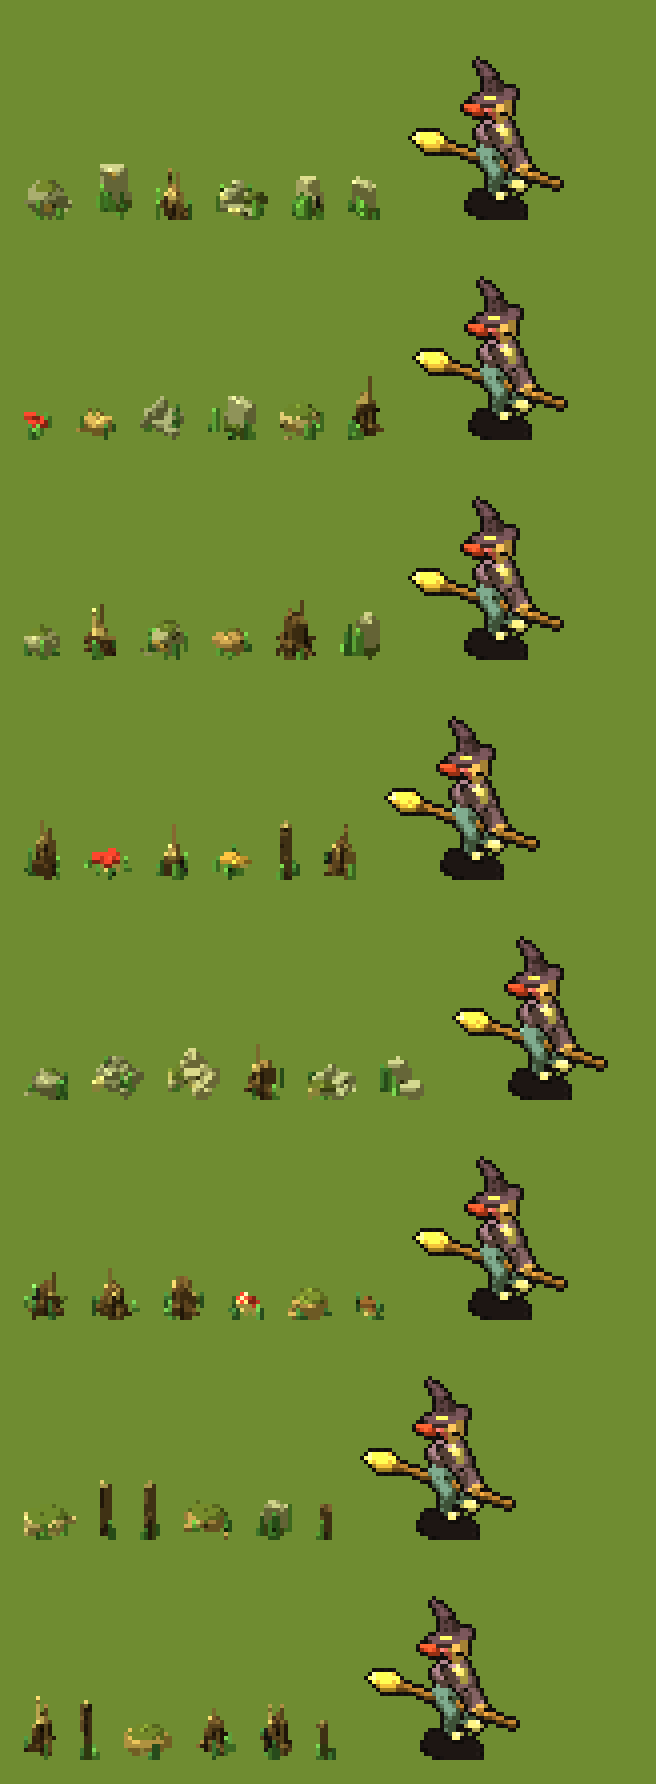
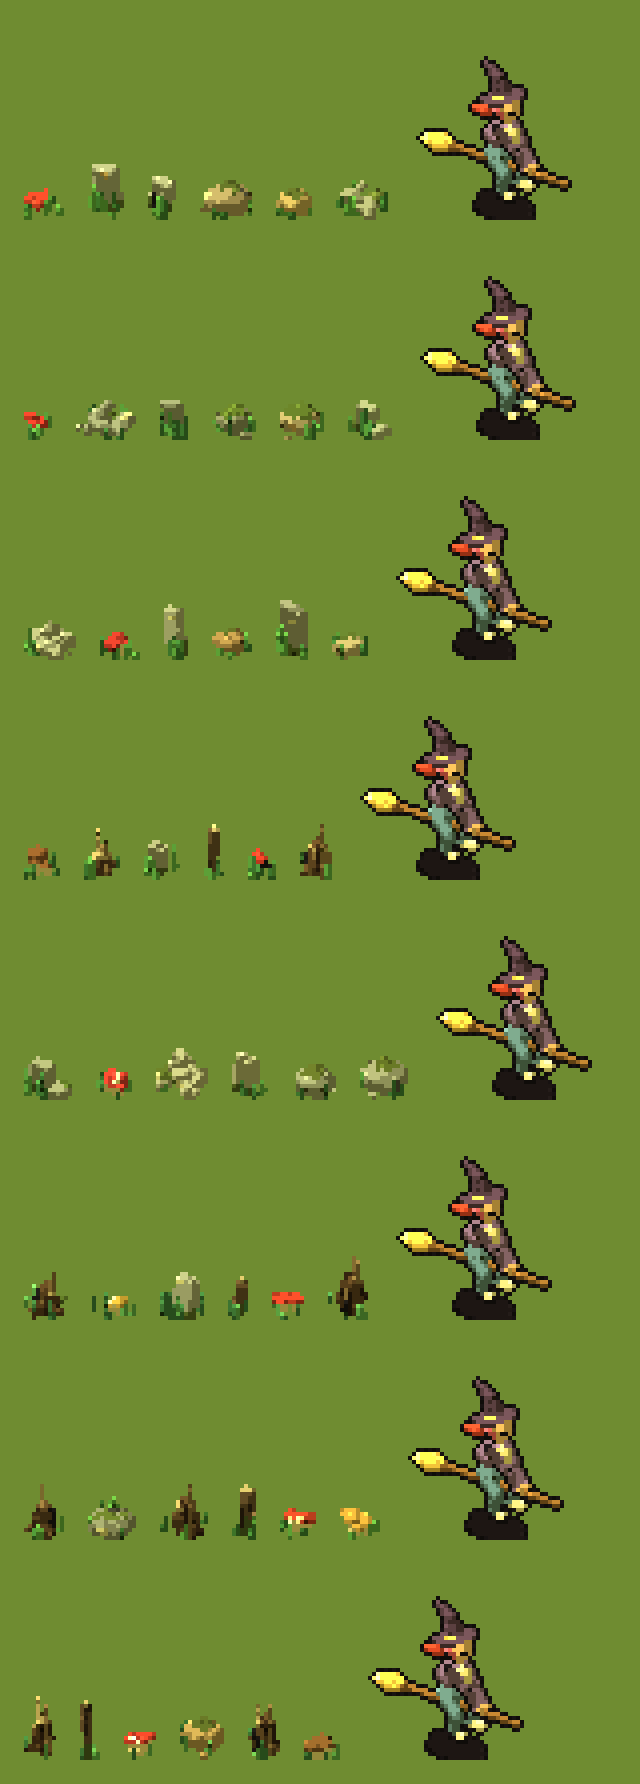
Rim kit: each area's six forms dealt by their weights (rimForms), not drawn independently; the check samples clearly wooded areas
Claude-Session: https://claude.ai/code/session_01VVaLYY2sU2dqSozCTw7Z4G

diff --git a/tools/art-lab/dist/witch-art-lab.html b/tools/art-lab/dist/witch-art-lab.html
@@ -1627,7 +1627,7 @@ const PITCH = .52;                       // the camera looks down about 30°
 // Renders a model to a Sprite `height` art pixels tall (measured over the parts not marked extra).
 // With `scale` (pixels per model unit) instead, several models share one scale.
 // With `measure`, it only works out the scale (pixels per unit) `height` would give: { s }.
-function render(model, { height, scale, facing = "towards", yaw = YAW[facing] ?? YAW.towards, pitch = PITCH, lineGap = .12, measure = false } = {}) {
+function render(model, { height, scale, facing = "towards", yaw = YAW[facing] ?? YAW.towards, pitch = PITCH, lineGap = .12, measure = false, keepDepth = false } = {}) {
   const cy = Math.cos(yaw), sy = Math.sin(yaw), cp = Math.cos(pitch), spp = Math.sin(pitch);
   // model.atScale(pxPerUnit): parts that must be sized in pixels (an expression's face: genome/expressions.js), added once the scale is known
   if (model.atScale && !measure) { const f = model.atScale; model.atScale = null; f(scale ?? render(model, { height, facing, yaw, pitch, lineGap, measure: true }).s); }
@@ -1738,7 +1738,13 @@ function render(model, { height, scale, facing = "towards", yaw = YAW[facing] ??
   sp.bodyH = Math.round((u1b - u0b) * s); // the body's height, without parts marked extra (antlers, wings)
   // where a point of the model lands on the sprite, in pixels from its top-left (for anchors: a hand, a hat tip)
   const project = p => { const w = toWorld(p); return [+(((w[0] - X0) * s + 1).toFixed(1)), +(((U1 - dot(w, U)) * s + drop).toFixed(1))]; };
-  return { sp, s, project };
+  if (!keepDepth) return { sp, s, project };
+  // keepDepth (the bedroom, for whatever walks in it): each pixel's distance along the view (moved down with the rows, Infinity
+  // where empty), and depthOf, the same distance for a point of the model, to compare with it
+  const zbuf = new Float32Array(W * H).fill(Infinity);
+  for (let y = H - 1; y >= drop; y--) zbuf.set(depth.subarray((y - drop) * W, (y - drop + 1) * W), y * W);
+  const depthOf = p => 50 - dot(toWorld(p), B);
+  return { sp, s, project, depth: zbuf, depthOf };
 }
 
 // Paint helpers: a pattern from model coordinates.
@@ -3006,6 +3012,21 @@ const PROP_GENOMES = {
 };
 const PROP_KINDS = Object.keys(PROP_GENOMES);
 
+// The legend clearings' rim kit (#235, art builder 1's ask): small pieces, none over a metre, that ring a sleeping legend's clearing
+// (rules: map.legendClearings), built from the props above at a small size, and a short post. Each area gets 6 (areaAssets' `rim`),
+// weighted by what it is: stony, open areas towards stones, cairns and boulders; wooded ones towards toadstools and stumps.
+//   forms: each form's weight [open, wooded]; the numbers each form fixes on the prop it is built from (ranges picked from the seed)
+const RIM_GENOMES = {
+  forms: { stone: [3, 1], cairn: [2, .5], boulder: [3, 1], toadstools: [1, 3], stump: [.5, 3], post: [.5, 1.5] },
+  stone: { kind: "standingStone", height: [.45, .8], width: [.28, .42], depth: [.14, .22], shape: "tall", lichen: [0, 1], lichenSize: [.05, .08], moss: [.15, .3] },
+  cairn: { kind: "cairn", stones: [5, 7], spread: [.5, .7], height: [.35, .55], size: [.11, .16], slab: "none", rubble: [1, 3] },
+  boulder: { kind: "boulder", size: [.22, .38], lumps: [1, 3], pebbles: [1, 3] },
+  toadstools: { kind: "mushroomRing", form: "clump", radius: [.22, .34], count: [4, 7], size: [.07, .12], cap: [["red", 3], ["brown", 3], ["ochre", 2]] },
+  stump: { kind: "brokenTrunk", height: [.25, .5], girth: [.12, .18], branch: "none", splinters: [2, 4], roots: [2, 4], fungi: [0, 1] },
+  post: { height: [.55, .95], girth: [.05, .08], lean: [-.14, .14], top: [["flat", 2], ["point", 1], ["split", 1]], moss: [0, .4],
+    colour: { wood: [.07, .3, .36], dark: [.06, .35, .2], light: [.08, .22, .52], pale: [.1, .14, .62], moss: [.24, .45, .36], fungus: [.08, .45, .62], spread: .05 } }, // weathered grey-brown wood
+};
+
 // The party's generated decorations (art/party.js "gen-*" pieces, behind ?props=gen): bunting, balloon bunches and paper lanterns,
 // each a few seeded variants, in the witch model's units like the other party pieces. Their colours are the party's (neon or
 // balloon palettes at bake), so the genomes hold shapes only.
@@ -3425,6 +3446,50 @@ function propFor(kind, o = {}) {
   return null;
 }
 
+// ---- the legend clearings' rim kit (RIM_GENOMES): a small piece of one of six forms, none over a metre ----
+// a short post: a squared stake, weathered, leaning a little; its top flat, cut to a point or split; moss up its foot
+function prPost(m, v) {
+  const r = v.r, H = v.height * PR_U, R = v.girth * PR_U, up = v3.norm([v.lean, 1, (r() - .5) * .1]), at = y => v3.mul(up, y);
+  const grain = p => Math.sin(p[0] * 90 + p[2] * 40 + p[1] * 6) > .85 ? M.BARKD : p[1] < H * v.moss * (.7 + .6 * gpPrCell(p, 30, 4)) ? M.MOSS : undefined;
+  const top = v.top === "point" ? H * .82 : H;
+  m.box(at(top * .5 - .01), [top * .5 + .01, R, R * .9], M.TRUNK, { dir: up, up: [1, 0, 0], round: R * .25, rough: .006, group: 1, paint: grain });
+  if (v.top === "point") for (const s0 of [-1, 1]) m.box(v3.add(at(top), [s0 * R * .9, 0, 0]), [R * 1.1, R * .9, R * 1.2], M.TRUNK, { dir: v3.norm(v3.add(up, [-s0 * .9, 0, 0])), up: [0, 0, 1], cut: true, group: 1 });
+  if (v.top === "point") m.box(at(top + R * .45), [R * .45, R * .5, R * .5], M.BELLY, { dir: up, up: [1, 0, 0], round: R * .3, group: 2 });
+  else if (v.top === "split") { m.box(at(top + .004), [.004, R * .95, R * .85], M.BELLY, { dir: up, up: [1, 0, 0], group: 2 }); m.box(v3.add(at(top), [R * .2, 0, R * .5]), [R * .5, .01, R * .6], M.BARKD, { dir: up, up: [1, 0, 0], cut: true, group: 1 }); }
+  else m.box(at(top + .004), [.004, R * .95, R * .85], M.BELLY, { dir: up, up: [1, 0, 0], group: 2 }); // its cut end, pale
+  for (let k = 0; k < 5; k++) { const a = r() * Math.PI * 2, x = Math.cos(a) * R * 2, z = Math.sin(a) * R * 2; m.seg([x, 0, z], [x, .05 + r() * .09, z], .018, .005, k % 2 ? M.LEAF2 : M.LEAF, { group: 9 }); }
+}
+// Whether an area is open (no trees among its big objects): its rim leans to stones; wooded ones to toadstools and stumps.
+const RIM_STONY_FLOORS = new Set(["stony", "scree", "stone", "gravel", "rock"]);
+const rimWooded = def => !!def?.big?.some(b => b[0] === "tree") && !RIM_STONY_FLOORS.has(def?.floor?.[0]) && !def?.layout?.terrain?.includes("rocky");
+const rimAreaSeed = def => [...(def?.id ?? "")].reduce((h, c) => (h * 31 + c.charCodeAt(0)) % 99991, 3);
+/** The form of an area's k-th rim piece (seeded by the area and k, weighted by RIM_GENOMES.forms). */
+function rimForm(def, k) {
+  const w = rimWooded(def) ? 1 : 0, opts = Object.entries(RIM_GENOMES.forms).map(([f, ws]) => [f, ws[w]]);
+  return prPick(rng((rimAreaSeed(def) * 7 + k * 131 + 17) >>> 0), opts);
+}
+/** An area's k-th rim piece's seed (its shape), its own in every area. */
+const rimSeed = (def, k) => rimAreaSeed(def) * 13 + k * 17 + 5;
+/** One rim piece: o.form (or the area's k-th, o.k), o.seed. Returns propPiece's { sp, colours, metres, variant } and its form. */
+function rimPiece(o = {}, def = null, st = {}, ppm = 16) {
+  for (let t = 0; t < 6; t++) { const p = rimPieceOnce({ ...o, seed: (o.seed ?? 0) + t * 1009 }, def, st, ppm); if (p.metres.height <= 1 || t === 5) return p; } // none over a metre: a taller one is seeded again
+}
+function rimPieceOnce(o, def, st, ppm) {
+  const form = o.form ?? rimForm(def, o.k ?? 0), G = RIM_GENOMES[form], seed = o.seed ?? 0, r = rng(((seed + 3) * 2654435761 + form.length * 131) >>> 0);
+  const fix = Object.fromEntries(Object.entries(G).filter(([k]) => k !== "kind" && k !== "colour").map(([k, g]) => [k, Array.isArray(g) && Array.isArray(g[0]) ? prPick(r, g) : Array.isArray(g) ? (Number.isInteger(g[0]) && Number.isInteger(g[1]) ? Math.round(g[0] + (g[1] - g[0]) * r()) : g[0] + (g[1] - g[0]) * r()) : g]));
+  if (form === "post") {
+    const v = { ...fix, seed, r }, m = new Model({ blend: .03 });
+    prPost(m, v);
+    const sp = prCrop(render(m, { scale: witchPixelsPerUnit(st) }).sp); cleanFlecks(sp);
+    const vr = rng((seed * 7919 + 13) >>> 0), C = G.colour, k = C.spread, leaf = def?.leaf ?? .26;
+    const colours = { [M.LEAF]: hsv2rgb(leaf, .5, .45), [M.LEAF2]: hsv2rgb(leaf - .03, .45, .62), [M.TRUNK]: prTone(C.wood, vr, k), [M.BARKD]: prTone(C.dark, vr, k), [M.BARKL]: prTone(C.light, vr, k), [M.BELLY]: prTone(C.pale, vr, k * .5), [M.MOSS]: prTone(C.moss, vr, k), [M.LINE]: [24, 22, 30] };
+    const { r: _r, ...variant } = v;
+    return { sp, colours, metres: { height: +(sp.h / ppm).toFixed(2), width: +(sp.w / ppm).toFixed(2) }, variant, form };
+  }
+  const p = propPiece(G.kind, { ...fix, seed }, def, st, ppm);
+  return { ...p, metres: { height: +(p.sp.h / ppm).toFixed(2), width: +(p.sp.w / ppm).toFixed(2) }, form };
+}
+
 
 
 // ---- inlined from art/props/bridges.js ----
@@ -3801,8 +3866,10 @@ function genSetPiece(kind, o = {}, def = null, st = {}, size = 1, ppm = 16) {
 
 
 
-// The room's size in model units: the floor S across each way, the walls H tall.
-const ROOM = { S: 3, H: 1.75, deck: .16, wall: .08 };
+// The room's size in model units: the floor S across each way, the walls H tall. (Ed, 2026-10-06: "twice as large, and you
+// should be able to walk around in it": S 3 to 4.25, twice the floor; the first room's things keep their places in its far
+// corner, and the new floor has more of her mess. DECISION FOR ED: twice the floor, not twice each way; `?room=6` tries that.)
+const ROOM = { S: 4.25, H: 1.75, deck: .16, wall: .08 };
 // Seen from the room's open corner: turned 45°, looked down on at the isometric angle.
 const ROOM_VIEW = { yaw: Math.PI / 4, pitch: .6 };
 
@@ -3930,8 +3997,8 @@ const BEDROOM_PROPS = {
     const foot = bP3(at), lean = o.lean || [0, 0, -1], back = .18, top = [foot[0] + lean[0] * back, .9, foot[2] + lean[2] * back];
     const along = (t) => [foot[0] + (top[0] - foot[0]) * t, foot[1] + (top[1] - foot[1]) * t, foot[2] + (top[2] - foot[2]) * t];
     const across = o.across || [1, 0, 0];
-    m.ell(along(.12), [.15, .12, .045], M.EAR, { dir: across, up: [0, 1, 0], group: 140 });
-    m.ell(along(.3), [.12, .1, .045], M.EAR, { dir: across, up: [0, 1, 0], group: 140 });
+    m.ell(along(.12), [.15, .12, .045], o.mat ?? M.EAR, { dir: across, up: [0, 1, 0], group: 140 });
+    m.ell(along(.3), [.12, .1, .045], o.mat ?? M.EAR, { dir: across, up: [0, 1, 0], group: 140 });
     m.ell(along(.24), [.035, .035, .02], M.NOSE, { group: 141, extra: true });
     m.seg(along(.35), along(.9), .025, .022, M.BARKD, { group: 142 });
     m.box(along(.95), [.03, .055, .02], M.BARKD, { dir: across, group: 142 });
@@ -4025,6 +4092,51 @@ const BEDROOM_PROPS = {
     for (const sx of [-1, 1]) m.seg(r([sx * .15, .32, -.16]), r([sx * .15, .72, -.17]), .02, .018, M.BARKL, { group: 240 });
     m.box(r([0, .62, -.17]), [.17, .07, .018], M.WOOD, { axes, group: 240, round: .012 });
   },
+  // a clothes rail along a wall (o.len long, along x unless o.turn), its garments hanging, a hanger or two empty
+  rail(m, at, o = {}) {
+    const c = bP3(at), a = o.turn || 0, L = o.len || .7, y = 1.02, r = p => bOff(c, p, a), k = o.k || 0;
+    for (const sx of [-1, 1]) { m.seg(r([sx * L / 2, 0, 0]), r([sx * L / 2, y, 0]), .02, .018, M.FRAME, { group: 250 }); m.seg(r([sx * L / 2, .01, -.12]), r([sx * L / 2, .01, .12]), .02, .02, M.FRAME, { group: 250 }); }
+    m.seg(r([-L / 2 - .02, y, 0]), r([L / 2 + .02, y, 0]), .014, .014, M.FRAME, { group: 250 });
+    const mats = [M.JACKET, M.TOP, M.EYE, M.SHOES, M.CLOTH, M.JEANS, M.POM, M.HAT];
+    const n = Math.max(3, Math.round(L / .1));
+    for (let i = 0; i < n; i++) {
+      const x = -L / 2 + .06 + (L - .12) * i / (n - 1), mat = mats[(i * 3 + k) % mats.length], h = .2 + .14 * hash2(i, k, 4), g = 251 + (i % 12);
+      m.seg(r([x, y, 0]), r([x, y - .06, 0]), .006, .006, M.FRAME, { group: g });
+      if (hash2(i, k, 7) < .15) continue; // an empty hanger
+      m.box(r([x, y - .06 - h, 0]), [.025, h, .13 + .03 * hash2(i, k, 2)], mat, { axes: [bRotY(bX, a), bUP, bRotY(bZ, a)], group: g, round: .02, rough: .004 });
+    }
+  },
+  // a bookcase against the left wall (its back on x = 0, o.len along z, o.h tall), its shelves full of book spines, a rune
+  // book open on top
+  bookcase(m, at, o = {}) {
+    const [x0, z] = at, L = o.len || .7, h = o.h || 1.2, D = .28, k = o.k || 0, covers = [M.BODY, M.BODY3, M.IRIS, M.CLOTH, M.EAR, M.ACCENT, M.HAT];
+    m.box([x0 + D / 2, h / 2, z], [D / 2, h / 2, L / 2], M.WOOD, { group: 260, round: .015, paint: p => p[0] > x0 + D - .025 || Math.abs(p[2] - z) > L / 2 - .03 || p[1] > h - .03 ? M.WOOD : M.BARKD });
+    const shelves = 4, gap = (h - .04) / shelves;
+    for (let si = 0; si < shelves; si++) {
+      const y0 = .03 + si * gap;
+      let zz = z - L / 2 + .04, i = 0;
+      while (zz < z + L / 2 - .06) {
+        const w = .025 + .02 * hash2(i, si + k, 3), bh = gap * (.55 + .35 * hash2(i, si + k, 5)), mat = covers[(i + si * 3 + k) % covers.length], lean = hash2(i, si, 9) < .1;
+        m.box([x0 + D * .55, y0 + bh / 2, zz + w / 2], [D * .38, bh / 2, w / 2 - .002], mat, { group: 261 + ((i + si) % 10), round: .004, dir: lean ? [Math.cos(.3), Math.sin(.3), 0] : bX, paint: p => Math.abs(p[1] - y0 - bh * .75) < .008 ? M.BODY2 : undefined });
+        zz += w + .004; i++;
+      }
+      m.box([x0 + D / 2, y0 - .005, z], [D / 2 - .01, .012, L / 2 - .02], M.BARKL, { group: 271, round: .005 });
+    }
+    BEDROOM_PROPS.openBook(m, [x0 + D / 2, h + .012, z], { turn: Math.PI / 2 + .2, k: k + 3, cover: M.BODY });
+  },
+  // a beanbag slumped on the floor
+  beanbag(m, at, o = {}) {
+    const c = bP3(at), r = o.r || .32;
+    m.ell([c[0], r * .55, c[2]], [r, r * .55, r * .92], o.mat ?? M.ACCENT, { group: 280, rough: .015 });
+    m.ell([c[0] - r * .25, r * .95, c[2] - r * .25], [r * .6, r * .3, r * .55], o.mat ?? M.ACCENT, { group: 280, rough: .012 });
+  },
+  // a crate of records, a couple out on the floor
+  records(m, at, o = {}) {
+    const c = bP3(at), a = o.turn || 0, r = p => bOff(c, p, a), axes = [bRotY(bX, a), bUP, bRotY(bZ, a)], sleeves = [M.POM, M.FLOWER, M.EYE, M.JACKET, M.SHOES, M.IRIS, M.BELLY];
+    m.box(r([0, .1, 0]), [.17, .1, .13], M.BARKL, { axes, group: 290, round: .01, paint: p => Math.abs(p[1] - .1) < .03 ? M.WOOD : undefined });
+    for (let i = 0; i < 7; i++) m.box(r([-.13 + i * .043, .19, 0]), [.012, .085, .12], sleeves[i % sleeves.length], { axes: [bRotY([Math.cos(.15 * (i % 3 - 1)), Math.sin(.15 * (i % 3 - 1)), 0], a), bUP, bRotY(bZ, a)], group: 291 + (i % 4), round: .004 });
+    for (const [dx, dz, mat] of [[.34, .1, M.SHOES], [.2, .32, M.IRIS]]) { const p = r([dx, .006, dz]); m.ell(p, [.15, .006, .15], M.SHADES, { group: 296 }); m.ell([p[0], .012, p[2]], [.05, .004, .05], mat, { group: 297 }); }
+  },
   // a rug, patterned
   rug(m, at, o = {}) {
     const c = bP3(at, .016), r = o.r || .7;
@@ -4034,10 +4146,12 @@ const BEDROOM_PROPS = {
 
 // The room: the deck, the floor's boards, the two far walls of boards, the window, the tree's bough and root, the
 // fairy lights and the banner; then the furniture and the mess.
-function bedroomModel() {
-  const { S, H, deck, wall } = ROOM, m = new Model({ blend: .02 }), K = S / 3.4; // (the furniture is placed for a room 3.4 across; K fits it)
+function bedroomModel({ S = ROOM.S } = {}) {
+  const { H, deck, wall } = ROOM, m = new Model({ blend: .02 }), K = 3 / 3.4; // (the first room's furniture is placed for a room 3.4 across; K fits it to the 3 it was)
   const B = Object.fromEntries(Object.entries(BEDROOM_PROPS).map(([id, f]) => [id, (mm, at, o) => f(mm, at.length === 3 ? [at[0] * K, at[1], at[2] * K] : [at[0] * K, at[1] * K], o)]));
   m.anchors.runes = []; m.anchors.flames = []; m.anchors.fairy = []; m.anchors.letters = [];
+  // where she can't walk (x0, z0, x1, z1 on the floor): the furniture's footprints (the things lying flat she steps over)
+  const blocks = m.anchors.blocks = [], block = (x, z, hx, hz) => blocks.push([x - hx, z - hz, x + hx, z + hz]);
   // the deck under the floor, and the floor's boards (running along x, their seams dark, a knot here and there)
   m.box([S / 2, -deck / 2, S / 2], [S / 2 + .04, deck / 2, S / 2 + .04], M.BARKL, { group: 2, round: .02, paint: p => p[1] > -.02 ? (Math.floor(p[2] * 4.5) % 2 ? M.WOOD : M.HAIR) : M.HAT1 });
   // the far walls: boards running up, seams dark, a sill and a top rail
@@ -4062,7 +4176,8 @@ function bedroomModel() {
   m.chain([[.05, .05, 2.0, .14], [.3, .06, 2.1, .1], [.55, .03, 1.95, .06], [.75, 0, 2.0, .03]], M.TRUNK, { group: 9, rough: .012, paint: p => p[1] > .1 && hash2(Math.floor(p[0] * 16), Math.floor(p[2] * 16), 2) > .6 ? M.MOSS : undefined });
   // fairy lights along the tops of the walls, in sags between pins
   const fairy = (a, b, n) => { for (let i = 0; i <= n; i++) { const t = i / n, sag = Math.sin(t * Math.PI * 4) ** 2 * .08, p = [a[0] + (b[0] - a[0]) * t, a[1] - sag, a[2] + (b[2] - a[2]) * t]; m.ell(p, [.018, .018, .018], i % 3 ? M.COLLAR : M.MAGIC2, { group: 10 }); m.anchors.fairy.push(p); } };
-  fairy([.25, H - .06, .06], [S - .1, H - .06, .06], 24); fairy([.06, H - .06, .25], [.06, H - .06, S - .1], 24);
+  const nf = Math.round(24 * S / 3);
+  fairy([.25, H - .06, .06], [S - .1, H - .06, .06], nf); fairy([.06, H - .06, .25], [.06, H - .06, S - .1], nf);
   // the banner: PARTY on the left wall, TONIGHT on the right, a pennant a letter, on a string
   const flags = (word, start, dir, along, n) => { [...word].forEach((ch, i) => { const t = (i + .5) / n, sag = Math.sin(t * Math.PI) * .06, c = [start[0] + dir[0] * along * t, H - .36 - sag, start[2] + dir[2] * along * t], nrm = dir[0] ? [0, 0, 1] : [1, 0, 0];
         m.anchors.letters.push([ch, [c[0] + nrm[0] * .03, c[1], c[2] + nrm[2] * .03], dir]); });
@@ -4101,20 +4216,52 @@ function bedroomModel() {
   B.openBook(m, [1.0, .03, .35], { turn: 1.2, k: 7, cover: M.IRIS });
   B.rug(m, [2.8, 1.95], { r: .78 });
   m.anchors.stand = [2.8 * K, 0, 1.95 * K];
+  block(.55, 1.4, .56, .88); block(.27, .27, .13, .13); block(.53, .31, .1, .09); block(1.24, 2.6, .22, .22); // the bed, the books, the chair
+  block(1.81, .27, .5, .22); block(2.6, .2, .16, .16); block(2.73, .55, .17, .17); block(2.6, .93, .14, .27); // the decks, the guitar, the drum, the synth
+  // The room's new floor (Ed, 2026-10-06: "twice as large"), placed in its own units: more of her mess.
+  if (S >= 3.6) {
+    const R = S - 3; // (what's new past the first room, along each wall)
+    // along the right-hand wall: a clothes rail, the long mirror by it, a bass against the wall; a heap at the rail's foot
+    const rx = 3 + R * .55;
+    BEDROOM_PROPS.rail(m, [rx, .3], { len: Math.min(1.1, R * .75), k: 2 }); block(rx, .3, Math.min(1.1, R * .75) / 2 + .04, .16);
+    BEDROOM_PROPS.guitar(m, [3.06, .18], { lean: [0, 0, -1], across: [1, 0, 0], mat: M.SHOES }); block(3.06, .2, .15, .14);
+    BEDROOM_PROPS.mirror(m, [S - .3, .85]); block(S - .3, .85, .2, .2);
+    BEDROOM_PROPS.clothes(m, [rx - .2, .75], { kind: "top", turn: 2.1, k: 7, mat: M.POM }); BEDROOM_PROPS.clothes(m, [rx + .15, .95], { kind: "jeans", turn: -1.1, k: 8 });
+    BEDROOM_PROPS.hat(m, [rx - .45, .9], { kind: "cowboy", turn: 1.4, k: 5 }); BEDROOM_PROPS.sneaker(m, [rx + .4, .62], { turn: 2.6, k: 3, mat: M.JACKET }); BEDROOM_PROPS.sneaker(m, [rx + .52, .7], { turn: .4, k: 4, mat: M.JACKET });
+    // along the left-hand wall: the broom by the bed, a bookcase full of spines, rune books open on the floor before it, a candle
+    BEDROOM_PROPS.broom(m, [.1, 2.68], { lean: [-1, 0, 0] }); block(.12, 2.68, .12, .12);
+    const bz = 3 + R * .55;
+    BEDROOM_PROPS.bookcase(m, [0, bz], { len: Math.min(1, R * .75), k: 1 }); block(.15, bz, .2, Math.min(1, R * .75) / 2 + .03);
+    BEDROOM_PROPS.openBook(m, [.62, bz - .35], { turn: .6, k: 11, cover: M.BODY3 }); BEDROOM_PROPS.openBook(m, [.85, bz + .2], { turn: -.4, k: 12, cover: M.IRIS }); BEDROOM_PROPS.openBook(m, [.5, bz + .55], { turn: 1.9, k: 13, cover: M.EAR });
+    const top = BEDROOM_PROPS.bookPile(m, [.45, 3.05], { n: 4, k: 6 }); BEDROOM_PROPS.candle(m, [.45, top, 3.05], { h: .1, k: 6 }); block(.45, 3.05, .1, .1);
+    // in the middle of the new floor: a beanbag with headphones on it, the records out of their crate, a party hat, a sock
+    BEDROOM_PROPS.beanbag(m, [1.8, S - .72], { mat: M.JEANS }); block(1.8, S - .72, .32, .3); // (room to pass between it and the chair)
+    BEDROOM_PROPS.headphones(m, [1.7, .4, S - .77], { turn: .3 });
+    BEDROOM_PROPS.records(m, [2.55, S - .55], { turn: .25 }); block(2.55, S - .55, .2, .16);
+    BEDROOM_PROPS.hat(m, [3.3, 2.75], { kind: "party", k: 6 }); BEDROOM_PROPS.clothes(m, [3.1, 3.3], { kind: "sock", turn: 2.2, k: 9, mat: M.EYE });
+    BEDROOM_PROPS.clothes(m, [1.2, S - .45], { kind: "scarf", turn: -.3, k: 10, mat: M.FLOWER });
+  }
+  // where she stands to look at a thing of hers (the creator opens its box): the hats heaped at the bed's foot, the broom, the
+  // sneakers; on the new floor, the rail, the mirror, the scarf, the headphones and the rune books
+  const spots = { hat: [.68, 2.5], broom: [.4, 2.78], shoes: [1.75, 2.8] };
+  if (S >= 3.6) Object.assign(spots, { outfit: [3.35, .7], hair: [S - .65, 1.3], scarf: [1.2, S - .5], phones: [2.3, S - 1.05], more: [.6, 3 + (S - 3) * .55] });
+  m.anchors.floor = { S, wall, blocks, spots };
   return m;
 }
 
 // The room rendered at the witch's own art pixel: its sprite and its anchors, in pixels from the top-left: stand (where
 // her feet go), letters (the banner's), mirror ({ x, y, rx, ry }, its glass, if one is placed), and the glowing things (runes, flames, fairy, screen, lantern,
 // potions, decks), for the room's lights and its animated glows.
-function bedroomSprite(st = {}) {
-  const m = bedroomModel(), { sp, project, s } = render(m, { scale: witchPixelsPerUnit(st), yaw: ROOM_VIEW.yaw, pitch: ROOM_VIEW.pitch, lineGap: .12 });
+function bedroomSprite(st = {}, { S } = {}) {
+  const m = bedroomModel({ S }), { sp, project, s, depth, depthOf } = render(m, { scale: witchPixelsPerUnit(st), yaw: ROOM_VIEW.yaw, pitch: ROOM_VIEW.pitch, lineGap: .12, keepDepth: true });
   const A = m.anchors, pt = p => project(p), anchors = {};
   for (const k of ["runes", "flames", "fairy"]) anchors[k] = A[k].map(pt);
   for (const k of ["screen", "lantern", "potions", "decks", "stand"]) anchors[k] = pt(A[k]);
   anchors.letters = A.letters.map(([ch, p, dir]) => { const a = pt(p), b = pt([p[0] + dir[0] * .1, p[1], p[2] + dir[2] * .1]); return [ch, a, (b[1] - a[1]) / (b[0] - a[0] || 1)]; }); // each letter, where its pennant hangs and the wall's slope on screen
   if (A.mirror) { const mr = A.mirror, c = pt(mr.c), e = pt([mr.c[0] + mr.u[0] * mr.ru, mr.c[1] + mr.rv, mr.c[2] + mr.u[2] * mr.ru]); anchors.mirror = { x: c[0], y: c[1], rx: Math.abs(e[0] - c[0]), ry: Math.abs(e[1] - c[1]) }; }
   sp.anchors = anchors; sp.scale = s;
+  // to walk in it (src/ui/roomWalk.ts): its floor (size, walls, footprints), where a floor point lands, and how far each pixel is
+  sp.walk = { ...A.floor, start: [A.stand[0], A.stand[2]], project, depth, depthOf, pitch: ROOM_VIEW.pitch };
   return sp;
 }
 
@@ -7051,6 +7198,8 @@ function setPiece(kind, o, def, st, r, s) {
   return { sp, colours };
 }
 
+/** How many rim pieces each area type has (areaAssets' `rim`). */
+const RIM_PIECES = 6;
 // Bakes everything one area type needs, at the style's pixel size.
 function areaAssets(id, st, { K = 2 / (st.pixel || 2), makeCanvas = defaultCanvas } = {}) {
   const def = AREA_BY_ID[id]; if (!def) throw new Error(`no area type "${id}"`);
@@ -7061,9 +7210,11 @@ function areaAssets(id, st, { K = 2 / (st.pixel || 2), makeCanvas = defaultCanva
   // share split among them), each its own shape from its own seed, so a pool or a stone isn't one sprite placed again and again
   const gen = list => !st.propGen ? list : (list || []).flatMap(([kind, o], i) => { const g = propFor(kind, o); if (!g) return [[kind, o]]; const n = o.variants || 3; return [...Array(n).keys()].map(k => [kind, { ...o, ...(o.sparse ? { sparse: o.sparse / n } : {}), gen: [g[0], { ...g[1], lead: k === 0 }, (r() * 1e6 | 0) + i * 7 + k] }]); });
   const col = list => (gen(list) || []).map(([kind, o]) => { const p = prop(kind, o, def, st, r, K), b = bk(p, kind, ""); if (SWAYING_PROPS.has(kind)) b.sway = bakeSway(p.sp, makeCanvas); if (p.metres) b.metres = p.metres; if (o.sparse) b.sparse = o.sparse; return b; }); // leafy props carry their sway mask; tall pieces their size and how sparse they stand
-  const out = { def, floor: { sp: bake(ft.sp, ft.colours, st, "none", makeCanvas), kind: def.floor[0], text: def.text.floor }, walls: col(def.wall), small: col(def.small), big: col(def.big), setPiece: null };
+  const out = { def, floor: { sp: bake(ft.sp, ft.colours, st, "none", makeCanvas), kind: def.floor[0], text: def.text.floor }, walls: col(def.wall), small: col(def.small), big: col(def.big), setPiece: null, rim: [] };
   out.walls.forEach(a => a.text = def.text.wall); out.small.forEach(a => a.text = def.text.small); out.big.forEach(a => a.text = def.text.big);
   if (def.set) { const sp0 = setPiece(def.set[0], def.set[1], def, st, r, K); out.setPiece = { ...bk(sp0, def.set[0], def.text.set), metres: sp0.metres, origin: sp0.origin }; } // the new 3D ones: their size, and where their middle on the ground lands
+  // the rim kit round a sleeping legend's clearing (#235): 6 small pieces (art/props/generator.js rimPiece), in the area's own colours, by what it is
+  out.rim = [...Array(RIM_PIECES).keys()].map(k => { const p = rimPiece({ k, seed: rimSeed(def, k) }, def, st); return { ...bk(p, p.form, "rim"), metres: p.metres }; });
   return out;
 }
 

diff --git a/art/props/generator.js b/art/props/generator.js
@@ -285,9 +285,15 @@ const RIM_STONY_FLOORS = new Set(["stony", "scree", "stone", "gravel", "rock"]);
 const rimWooded = def => !!def?.big?.some(b => b[0] === "tree") && !RIM_STONY_FLOORS.has(def?.floor?.[0]) && !def?.layout?.terrain?.includes("rocky");
 const rimAreaSeed = def => [...(def?.id ?? "")].reduce((h, c) => (h * 31 + c.charCodeAt(0)) % 99991, 3);
 /** The form of an area's k-th rim piece (seeded by the area and k, weighted by RIM_GENOMES.forms). */
-export function rimForm(def, k) {
-  const w = rimWooded(def) ? 1 : 0, opts = Object.entries(RIM_GENOMES.forms).map(([f, ws]) => [f, ws[w]]);
-  return prPick(rng((rimAreaSeed(def) * 7 + k * 131 + 17) >>> 0), opts);
+export function rimForm(def, k, n = 6) { return rimForms(def, n)[k % n]; }
+/** An area's n rim forms: dealt by the forms' weights (largest remainder, ties by the area's seed), so its mix follows them, in a seeded order. */
+export function rimForms(def, n = 6) {
+  const w = rimWooded(def) ? 1 : 0, r = rng((rimAreaSeed(def) * 7 + 17) >>> 0), opts = Object.entries(RIM_GENOMES.forms).map(([f, ws]) => [f, ws[w]]), tot = opts.reduce((a, [, x]) => a + x, 0);
+  const share = opts.map(([f, x]) => ({ f, q: x / tot * n, j: r() * .01 })), out = [];
+  for (const o of share) for (let i = 0; i < Math.floor(o.q); i++) out.push(o.f);
+  for (const o of [...share].sort((a, b) => (b.q % 1 + b.j) - (a.q % 1 + a.j))) { if (out.length >= n) break; out.push(o.f); }
+  for (let i = out.length - 1; i > 0; i--) { const j = Math.floor(r() * (i + 1)); [out[i], out[j]] = [out[j], out[i]]; }
+  return out;
 }
 /** An area's k-th rim piece's seed (its shape), its own in every area. */
 export const rimSeed = (def, k) => rimAreaSeed(def) * 13 + k * 17 + 5;
